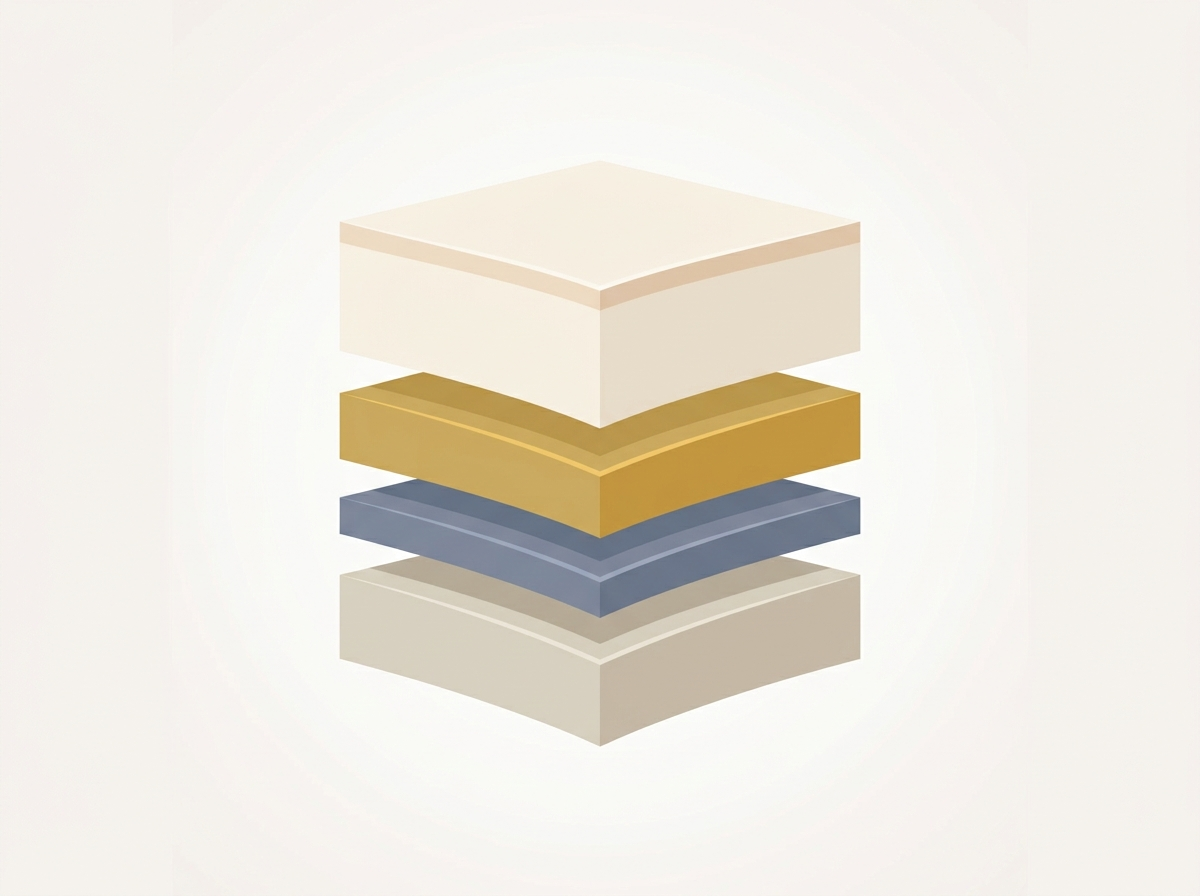
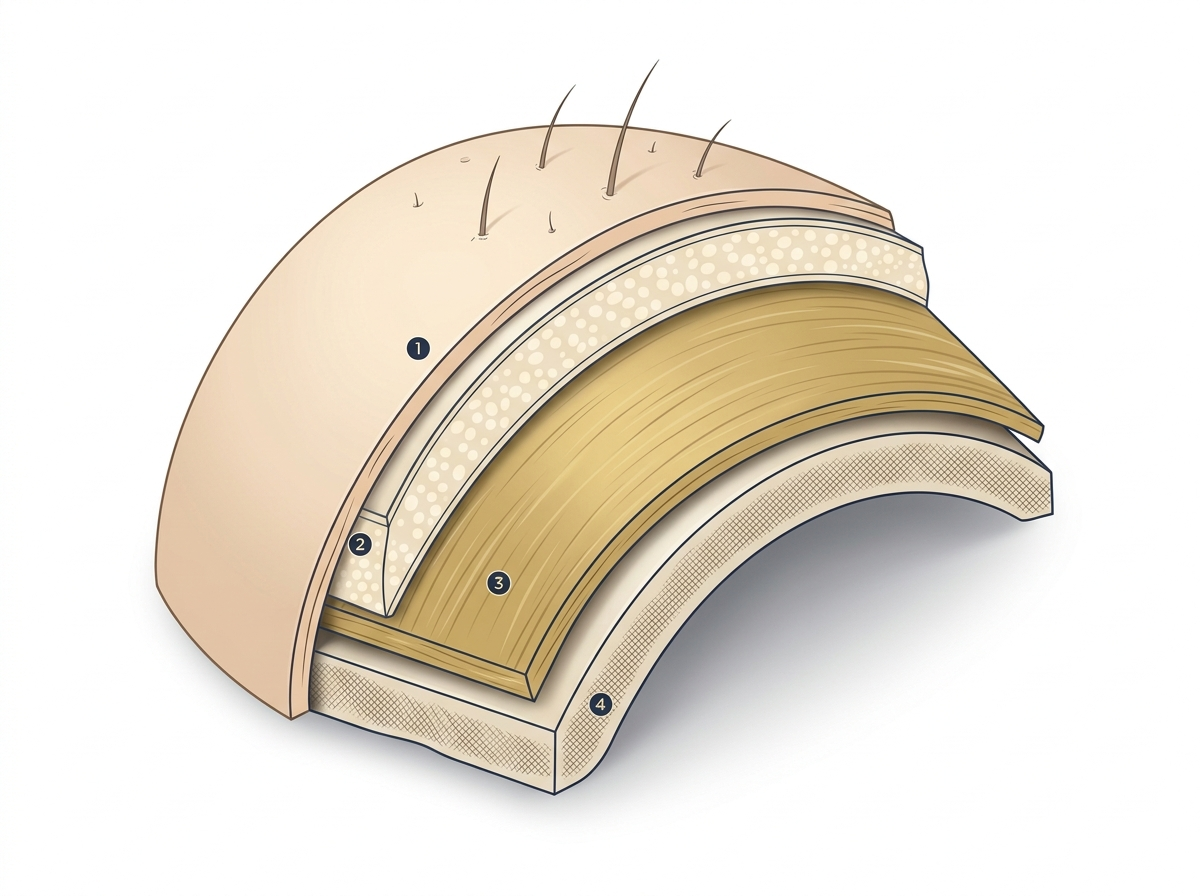
座学パイロットPG10追加(v2:解剖監修/参加設計/デザイン修正反映)＋断面図PG10_02を高品質版に再生成

diff --git a/PG10_座学_なぜ頭の地図で選ばれるのか.html b/PG10_座学_なぜ頭の地図で選ばれるのか.html
@@ -1,0 +1,322 @@
+<!DOCTYPE html>
+<html lang="ja">
+<head>
+<meta charset="UTF-8">
+<meta name="robots" content="noindex, nofollow">
+<meta name="viewport" content="width=device-width, initial-scale=1.0">
+<title>PG10 座学｜なぜ「頭の地図」を知ると選ばれ続けるのか</title>
+<style>
+  :root{--navy:#1B2A4A;--navy2:#0F1A2E;--gold:#C5A55A;--gold-l:#e3d3a6;--ivory:#F5F0E6;--ink:#1f2733;--mut:#5b6676;--line:#e7e2d6;--bg:#f3f1ea;--red:#c0392b;--green:#2f8a52;--blue:#2c5f9e;--skin:#efd9c4;--sub:#f0e2d0;--galea:#C5A55A;--bone:#e8ddc7}
+  *{box-sizing:border-box;margin:0;padding:0}
+  body{font-family:"Hiragino Kaku Gothic ProN","Yu Gothic",sans-serif;color:var(--ink);background:var(--bg);line-height:1.8;-webkit-font-smoothing:antialiased}
+  .wrap{max-width:1000px;margin:0 auto;padding:0 16px 100px}
+  header{background:radial-gradient(circle at 28% 18%,#28426d,var(--navy2));color:var(--ivory);padding:40px 28px 32px;margin:0 -16px 20px;border-bottom:4px solid var(--gold)}
+  header .mark{font-family:"Hiragino Mincho ProN",serif;color:var(--gold);letter-spacing:.28em;font-size:11px}
+  header h1{font-family:"Hiragino Mincho ProN",serif;font-size:25px;font-weight:600;margin:8px 0 6px;line-height:1.5}
+  header .meta{font-size:12.5px;color:#c9d2e0;display:flex;gap:16px;flex-wrap:wrap}
+  .howto{background:#fff;border:1px solid var(--line);border-radius:14px;padding:16px 22px;margin-bottom:8px}
+  .howto h2{font-size:15px;color:var(--navy);margin-bottom:8px;font-family:"Hiragino Mincho ProN",serif}
+  .howto .g{display:grid;grid-template-columns:repeat(3,1fr);gap:10px}
+  .howto .c{background:var(--ivory);border-radius:10px;padding:11px 14px;font-size:12.5px}
+  .howto .c b{display:block;color:var(--navy);font-size:13px;margin-bottom:2px}
+  .howto .c.audio{background:#eef4fb;border:1px solid #cddcf0}
+  .howto .c.visual{background:#fbf5e6;border:1px solid var(--gold-l)}
+  .scene{margin:26px 0}
+  .scene .bar{display:flex;align-items:center;gap:10px;margin-bottom:8px}
+  .scene .bar .no{background:var(--navy);color:#fff;font-weight:800;font-size:13px;border-radius:8px;padding:3px 13px}
+  .scene .bar .nm{font-size:14px;font-weight:800;color:var(--navy)}
+  .scene .bar .dur{margin-left:auto;font-size:11.5px;color:var(--mut)}
+  .slide{container-type:inline-size;aspect-ratio:16/9;width:100%;background:#fff;border:1px solid var(--line);border-radius:14px;overflow:hidden;position:relative;box-shadow:0 3px 16px rgba(27,42,74,.08)}
+  .slide.dark{background:radial-gradient(circle at 30% 25%,#26406b,var(--navy2));color:#fff;border:none}
+  .slide .pad{position:absolute;inset:0;padding:5cqw 6cqw;display:flex;flex-direction:column;justify-content:center}
+  .kick{font-size:2.5cqw;font-weight:800;letter-spacing:.02em;color:#9a7b27;margin-bottom:1.5cqw}
+  .slide.dark .kick{color:var(--gold-l)}
+  .big{font-size:5.2cqw;font-weight:800;line-height:1.36;color:var(--navy);font-family:"Hiragino Mincho ProN",serif}
+  .slide.dark .big{color:#fff}
+  .big .em{color:#9a7b27;background:linear-gradient(transparent 60%,rgba(197,165,90,.30) 60%)}
+  .slide.dark .big .em{color:var(--gold-l);background:none}
+  .sub{font-size:2.7cqw;color:var(--mut);margin-top:2cqw;line-height:1.6}
+  .slide.dark .sub{color:#c9d2e0}
+  .vs{display:grid;grid-template-columns:1fr auto 1fr;gap:3cqw;align-items:center;width:100%}
+  .vs .card{border-radius:2cqw;padding:3cqw;text-align:center}
+  .vs .bad{background:#f6eceb;border:0.4cqw solid #dcb7b2}
+  .vs .good{background:#eaf3ed;border:0.4cqw solid #a9d2ba}
+  .vs .ic{font-size:7cqw;line-height:1}
+  .vs .lb{font-size:2.9cqw;font-weight:800;margin-top:1cqw}
+  .vs .bad .lb{color:#a5433a}.vs .good .lb{color:var(--green)}
+  .vs .ds{font-size:2.15cqw;color:#555;margin-top:.8cqw;line-height:1.5}
+  .vs .mid{font-size:4cqw;color:var(--gold);font-weight:800}
+  /* 層構造 */
+  .figrow{display:flex;gap:4cqw;align-items:center;width:100%}
+  .figrow img{flex:0 0 40%;width:40%;border-radius:2cqw;border:1px solid var(--line);background:#fff}
+  .figrow .tx{flex:1;min-width:0}
+  .layers{display:flex;flex-direction:column;gap:1.1cqw}
+  .layers .ly{border-radius:1.4cqw;padding:1.9cqw 2.4cqw;font-size:2.5cqw;font-weight:700;display:flex;justify-content:space-between;align-items:center;color:#3a3327;gap:1cqw}
+  .layers .ly small{font-weight:400;font-size:1.95cqw;color:#6b6350;text-align:right}
+  .ly.skin{background:var(--skin)} .ly.subq{background:var(--sub)} .ly.galea{background:var(--galea);color:#3a2c08} .ly.bone{background:var(--bone)}
+  .lbl{display:flex;align-items:center;gap:1.4cqw;font-size:2.55cqw;font-weight:700;margin:1cqw 0}
+  .lbl .dot{width:2.4cqw;height:2.4cqw;border-radius:50%;flex:0 0 auto}
+  .lbl small{font-weight:400;font-size:1.9cqw;color:var(--mut)}
+  /* 例えバッジ（ネイビー地・全スライド共通で高コントラスト） */
+  .analogy{position:absolute;right:4cqw;bottom:4cqw;background:linear-gradient(135deg,#22375c,var(--navy2));border:0.55cqw solid var(--gold);border-radius:2cqw;padding:1.7cqw 2.3cqw;max-width:42%;box-shadow:0 1.4cqw 3.4cqw rgba(15,26,46,.34)}
+  .analogy .h{font-size:2cqw;font-weight:800;color:var(--gold-l);letter-spacing:.05em}
+  .analogy .b{font-size:2.5cqw;font-weight:800;color:#fff;line-height:1.4;margin-top:.4cqw}
+  /* やってみて（参加） */
+  .tryit{display:inline-flex;align-items:flex-start;gap:1.2cqw;background:rgba(47,138,82,.12);border:0.4cqw solid #a9d2ba;border-radius:1.6cqw;padding:1.4cqw 2cqw;font-size:2.35cqw;font-weight:800;color:#256b41;margin-top:2.4cqw;line-height:1.45}
+  .tryit::before{content:"✋ やってみて";background:var(--green);color:#fff;font-size:1.9cqw;border-radius:1cqw;padding:.5cqw 1.2cqw;white-space:nowrap;flex:0 0 auto}
+  .slide.dark .tryit{background:rgba(255,255,255,.1);border-color:#7fbf9b;color:#cdeede}
+  /* 重み図（S9） */
+  .weight{display:flex;gap:5cqw;align-items:center;width:100%;justify-content:center}
+  .weight .fig{font-size:14cqw;line-height:1}
+  .weight .bt{text-align:center}
+  .weight .bt .n{font-size:7cqw;font-weight:800;color:var(--navy);font-family:"Hiragino Mincho ProN",serif}
+  .weight .bt .n small{font-size:2.4cqw;color:var(--mut);font-weight:400;display:block}
+  .weight .eq{font-size:4cqw;color:var(--gold);font-weight:800}
+  .weight .pb{font-size:9cqw}
+  /* 好循環ループ */
+  .loop2{display:flex;flex-direction:column;gap:1.6cqw;width:100%;align-items:center}
+  .loop2 .r{display:flex;align-items:center;justify-content:center;gap:1.2cqw;flex-wrap:nowrap}
+  .loop2 .step{background:var(--ivory);border:0.4cqw solid var(--gold-l);border-radius:1.5cqw;padding:1.4cqw 1.8cqw;font-size:2.35cqw;font-weight:800;color:var(--navy);white-space:nowrap}
+  .loop2 .step.hi{background:var(--navy);color:#fff;border-color:var(--navy)}
+  .loop2 .ar{color:var(--gold);font-size:2.8cqw;font-weight:800}
+  .loop2 .down{align-self:flex-end;margin-right:8cqw;color:var(--gold);font-size:3.4cqw;font-weight:800;line-height:.8}
+  .loop2 .ret{font-size:2.3cqw;font-weight:800;color:#9a7b27;margin-top:1.2cqw}
+  .narr{background:#eef4fb;border:1px solid #cddcf0;border-left:5px solid var(--blue);border-radius:0 12px 12px 0;padding:14px 18px;margin-top:10px}
+  .narr .h{font-size:12px;font-weight:800;color:var(--blue);letter-spacing:.04em;margin-bottom:6px}
+  .narr .h::before{content:"🎙 ナレーション原稿（この文章を後から吹き込む）";}
+  .narr p{font-size:15px;line-height:2;margin:6px 0;color:#1f2733;font-family:"Hiragino Mincho ProN","Yu Mincho",serif}
+  .narr .do{color:#256b41;font-weight:700}
+  .telop{font-size:12px;color:var(--mut);margin-top:8px;padding-left:4px}
+  .telop b{color:var(--navy)}
+  .telop .a{color:#9a7b27;font-weight:700}
+  .telop .yomi{color:var(--blue);font-weight:700}
+  .analogy-note{background:#fffaf0;border:1px dashed var(--gold);border-radius:10px;padding:9px 14px;font-size:12.5px;color:#7a5f1e;margin-top:8px}
+  .analogy-note b{color:#9a7b27}
+  h2.sec{font-family:"Hiragino Mincho ProN",serif;color:var(--navy);font-size:19px;margin:30px 0 4px;padding-bottom:6px;border-bottom:2px solid var(--gold);display:inline-block}
+  .note{background:#fff8e8;border:1px dashed var(--gold);border-radius:10px;padding:12px 16px;font-size:13px;margin:12px 0;color:#7a5f1e}
+  footer{text-align:center;color:var(--mut);font-size:11.5px;margin-top:34px}
+  @media(max-width:640px){.howto .g{grid-template-columns:1fr}.narr p{font-size:14px}}
+  @media print{body{background:#fff}.scene{page-break-inside:avoid}}
+</style>
+</head>
+<body>
+<header>
+  <div class="mark">YAMAGUCHI-RYU RIYODO ／ 座学 LESSON — PILOT v2</div>
+  <h1>PG10 座学編｜なぜ「頭の地図」を知ると、選ばれ続けるのか</h1>
+  <div class="meta"><span>解剖学①（座学バージョン）</span><span>形式：図解スライド＋AI吹き替えナレーション</span><span>目安：約10分（11シーン）</span></div>
+</header>
+<div class="wrap">
+
+  <div class="howto">
+    <h2>この座学動画の作り方（制作メモ）</h2>
+    <div class="g">
+      <div class="c visual"><b>🎬 映像＝この画面がそのまま完成ビジュアル</b>各シーンの図解スライドを画面収録、または1枚ずつ書き出して並べる。文字は最小限・図で見せる設計。</div>
+      <div class="c audio"><b>🎙 音声＝各シーンの青枠原稿を後から吹き込み</b>太郎さんの声のクローンAIに、青枠のナレ原稿を読ませて乗せる。短文・話し言葉・難読語に読み仮名付き。</div>
+      <div class="c"><b>🎯 ねらい</b>①図解で視覚化 ②身近な例え ③自分の頭で確かめる参加、で「必ず残る」座学に。解剖の正確さ・薬機法も監修反映済み。</div>
+    </div>
+  </div>
+
+  <h2 class="sec">シーン構成（図解＋ナレーション原稿）</h2>
+
+  <!-- S1 -->
+  <div class="scene">
+    <div class="bar"><span class="no">S1</span><span class="nm">つかみ（タイトル）</span><span class="dur">0:00–0:40</span></div>
+    <div class="slide dark"><div class="pad" style="align-items:center;text-align:center">
+      <div class="kick">解剖学①　座学編</div>
+      <div class="big">同じ強さで揉んでいるのに、<br><span class="em">選ばれる人</span>と、選ばれない人がいる。</div>
+      <div class="sub">その差は「手の力」ではありません。頭の“地図”が、頭に入っているかどうかです。</div>
+    </div></div>
+    <div class="narr"><div class="h"></div>
+      <p>同じ強さで、同じ時間、頭をほぐしている。なのに、また来てもらえる人と、一度きりで終わる人がいます。この違いは、手の力ではありません。頭の「地図」が、頭に入っているかどうか。今日は、その地図を、いっしょに描いていきます。</p>
+    </div>
+    <div class="telop"><b>📺画面：</b>ネイビー背景・ゴールド見出し。静かなBGM。</div>
+  </div>
+
+  <!-- S2 -->
+  <div class="scene">
+    <div class="bar"><span class="no">S2</span><span class="nm">問題提起（2人の施術者）</span><span class="dur">0:40–1:40</span></div>
+    <div class="slide"><div class="pad" style="justify-content:center">
+      <div class="kick">なぜ差がつくのか</div>
+      <div class="vs">
+        <div class="card bad"><div class="ic">🤐</div><div class="lb">黙って揉む人</div><div class="ds">上手いけれど、何をしているか伝わらない。「気持ちよかった」で終わる。</div></div>
+        <div class="mid">VS</div>
+        <div class="card good"><div class="ic">🗣️</div><div class="lb">場所を語れる人</div><div class="ds">「ここは側頭筋、噛みしめでかたく感じやすい場所です」。“分かってる人”だと伝わる。</div></div>
+      </div>
+    </div></div>
+    <div class="narr"><div class="h"></div>
+      <p>ここに、2人の施術者がいます。1人は、とても上手に揉みます。でも、黙っています。お客様は「気持ちよかった」で、帰ります。もう1人は、施術しながら、こう言います。「ここは側頭筋。噛みしめのクセがある方は、かたく感じやすい場所と言われています」。同じ手の技術でも、あとの一言があるだけで、“この人は分かっているな”と伝わります。人は、分かっている人に、また任せたくなります。</p>
+    </div>
+    <div class="telop"><b>📺画面：</b>右（語れる人）を最後にゴールド枠でハイライト。<span class="yomi">AI読み：側頭筋＝そくとうきん</span></div>
+    <div class="analogy-note"><b>直し：</b>「噛みしめでこる」→「かたく感じやすい場所と言われています」に緩和（薬機法・因果の断定回避）。</div>
+  </div>
+
+  <!-- S3 -->
+  <div class="scene">
+    <div class="bar"><span class="no">S3</span><span class="nm">ゴール提示（カーナビの例え）</span><span class="dur">1:40–2:30</span></div>
+    <div class="slide"><div class="pad">
+      <div class="kick">この座学のゴール</div>
+      <div class="big">頭に<span class="em">“地図”</span>が入っている人は、迷わない。</div>
+      <div class="sub">道を聞いたとき——「たぶん、こっち…」より、「まっすぐ、次の角を右」と即答する人に、安心して任せますよね。施術もまったく同じです。</div>
+      <div class="analogy"><div class="h">たとえるなら</div><div class="b">🧭 カーナビが入った頭<br>“どこを触っているか”を即答できる</div></div>
+    </div></div>
+    <div class="narr"><div class="h"></div>
+      <p>道を聞いたとき、「たぶん、こっちかな…」と迷う人と、「この道をまっすぐ、次の角を右」と、はっきり答える人。どちらに、安心して任せたいですか。頭の中にカーナビが入っている人は、迷いません。施術も同じです。頭の地図が入っていれば、「今ここは側頭筋です」と、自然に言えるようになります。この座学のゴールは、あなたの頭に、その地図を入れることです。</p>
+    </div>
+    <div class="telop"><b>📺画面：</b>右下に「🧭カーナビ」バッジ（ネイビー地・ゴールド文字）。</div>
+  </div>
+
+  <!-- S4 -->
+  <div class="scene">
+    <div class="bar"><span class="no">S4</span><span class="nm">頭は4つの層（水泳帽の例え）＋断面図</span><span class="dur">2:30–3:50</span></div>
+    <div class="slide"><div class="pad">
+      <div class="kick">まず全体像：頭は層でできている</div>
+      <div class="figrow">
+        <img src="img/PG10_02_scalp_layers_cross.png" alt="頭皮の断面（層構造）">
+        <div class="tx"><div class="layers">
+          <div class="ly skin">① 皮ふ <small>いちばん外側</small></div>
+          <div class="ly subq">② 皮下（脂肪の層）<small>クッション</small></div>
+          <div class="ly galea">③ 帽状腱膜＋筋肉 <small>頭を包む“一枚の帽子”🏊</small></div>
+          <div class="ly bone">④ 頭の骨 <small>さわらない・位置の目印</small></div>
+        </div></div>
+      </div>
+    </div></div>
+    <div class="narr"><div class="h"></div>
+      <p>地図を描く前に、頭の断面を見ます。頭は、層になっています。いちばん外が、皮ふ。その下に、うすい脂肪の層、皮下があります。さらにその下が、今日の主役です。頭全体を、帽子のように包む、一枚の膜。帽状腱膜といいます。そして、この膜と、これからさわる筋肉は、ひとつながりです。膜が、筋肉どうしをつないでいます。イメージは、水泳帽。頭を、スッポリ、一枚で包んでいます。いちばん下が、骨。骨は、さわる相手ではなく、場所を確かめる目印に使います。</p>
+    </div>
+    <div class="telop"><b>📺画面：</b><span class="a">img/PG10_02（断面図）</span>を左に。③帽状腱膜＋筋肉の行をゴールドで強調。<span class="yomi">AI読み：帽状腱膜＝ぼうじょうけんまく</span></div>
+    <div class="analogy-note"><b>直し：</b>①皮下（脂肪の層）を追加（頭皮5層の正しい順）②「帽状腱膜」と「筋肉」を別レイヤーにせず<b>同一の“一枚の帽子”</b>に統合（前頭筋・後頭筋が宙に浮く誤りを回避）。<b>要再生成：</b>断面図PG10_02は頭の丸みと各層ラベル入りに差し替え予定。</div>
+  </div>
+
+  <!-- S5 -->
+  <div class="scene">
+    <div class="bar"><span class="no">S5</span><span class="nm">今日の3つの筋肉＋1つの膜（筋肉マップ）</span><span class="dur">3:50–4:40</span></div>
+    <div class="slide"><div class="pad">
+      <div class="kick">覚えるのは、たった4か所</div>
+      <div class="figrow">
+        <img src="img/PG10_01_head_muscle_map_side.png" alt="頭の筋肉マップ（横顔）">
+        <div class="tx">
+          <div class="lbl"><span class="dot" style="background:var(--gold)"></span>前頭筋（ぜんとうきん）<small>＝おでこ</small></div>
+          <div class="lbl"><span class="dot" style="background:#8a94a8"></span>側頭筋（そくとうきん）<small>＝こめかみ</small></div>
+          <div class="lbl"><span class="dot" style="background:#b9c0cf"></span>後頭部の筋肉<small>＝後ろ（前頭筋と対になる後ろ側）</small></div>
+          <div class="lbl"><span class="dot" style="background:var(--gold-l)"></span>帽状腱膜<small>＝てっぺん（前後をつなぐ膜）</small></div>
+        </div>
+      </div>
+    </div></div>
+    <div class="narr"><div class="h"></div>
+      <p>今日覚える場所は、4つです。おでこの、前頭筋。こめかみの、側頭筋。後ろの、後頭部の筋肉。そして、てっぺんを包む、帽状腱膜。じつは、おでこの前頭筋と、後ろの筋肉は、さっきの膜でつながった、ひとつの仲間です。前と後ろで、対になっています。この4つの、名前と、場所と、性格を、順番に見ていきます。</p>
+    </div>
+    <div class="telop"><b>📺画面：</b><span class="a">img/PG10_01（筋肉マップ）</span>を左に。名前が出るたび対応部位を発光。<span class="yomi">AI読み：前頭筋＝ぜんとうきん</span></div>
+    <div class="analogy-note"><b>直し：</b>「後頭筋（独立筋）」→「後頭部の筋肉（前頭筋と対になる後ろ側）」。前頭筋・後頭部の筋は帽状腱膜でつながる一つの筋（後頭前頭筋）という事実に整合。</div>
+  </div>
+
+  <!-- S6 -->
+  <div class="scene">
+    <div class="bar"><span class="no">S6</span><span class="nm">前頭筋（眉上げの例え）＋参加</span><span class="dur">4:40–5:40</span></div>
+    <div class="slide"><div class="pad">
+      <div class="kick">① 前頭筋（おでこ）</div>
+      <div class="big">眉を上げる筋肉。<br><span class="em">画面を見続ける</span>と、負担がかかりやすい。</div>
+      <div class="tryit">おでこに指を当てて、眉を2〜3回、上げ下げ。動く筋肉、それが前頭筋です。</div>
+      <div class="analogy"><div class="h">たとえるなら</div><div class="b">😳 驚いた顔のキープ<br>眉を上げたまま固まると額が張る</div></div>
+    </div></div>
+    <div class="narr"><div class="h"></div>
+      <p>1つ目は、前頭筋。おでこにある、うすい筋肉です。これは、眉を上げるときに使います。<span class="do">では、いっしょに。おでこに指を当てて、眉を、二、三回、上げ下げしてみてください。</span>動いていますね。それが、前頭筋です。画面をじっと見続けるときなど、無意識に眉を上げるクセがあると、この筋肉に負担がかかりやすいと言われています。驚いた顔を、キープしているようなものです。ここは、皮ふと、うすい層の下が、すぐ骨に近い場所。だから、強く押し込みません。皮ふごと、下から上へ、ゆっくりなで上げる。それで十分だと言われています。</p>
+    </div>
+    <div class="telop"><b>📺画面：</b>おでこ部位を発光。右下に「😳驚き顔キープ」バッジ。左に✋やってみて。</div>
+  </div>
+
+  <!-- S7 -->
+  <div class="scene">
+    <div class="bar"><span class="no">S7</span><span class="nm">側頭筋（グーの例え）＋参加</span><span class="dur">5:40–6:50</span></div>
+    <div class="slide"><div class="pad">
+      <div class="kick">② 側頭筋（こめかみ）</div>
+      <div class="big">噛む筋肉。<span class="em">食いしばり</span>のクセで、かたく感じやすい。</div>
+      <div class="tryit">こめかみに手を当てて、奥歯をグッと噛む。ふくらむのが側頭筋です。</div>
+      <div class="analogy"><div class="h">たとえるなら</div><div class="b">✊ ずっとグーを握った手<br>あごが一日グーを握り続けている状態</div></div>
+    </div></div>
+    <div class="narr"><div class="h"></div>
+      <p>2つ目は、側頭筋。こめかみから、耳の上に広がる、おうぎ形の筋肉です。これは、噛むときに使います。<span class="do">こめかみに、手を当ててください。そのまま、奥歯を、グッと噛んでみてください。</span>ふくらみましたね。それが、側頭筋です。想像してください。手で、グーを、ずっと握りしめていたら、手は疲れて、かたくなります。食いしばりが続く方は、あごが、一日じゅうグーを握り続けているようなもの。この筋肉が、こわばりやすいと言われています。ここは、指の腹で、面を広くとらえて、小さな円を、ゆっくり描く。押し込むのではなく、動かす。それが基本です。</p>
+    </div>
+    <div class="telop"><b>📺画面：</b>こめかみ発光＋「奥歯を噛む→ふくらむ」矢印。右下「✊グーを握り続ける手」。</div>
+  </div>
+
+  <!-- S8 -->
+  <div class="scene">
+    <div class="bar"><span class="no">S8</span><span class="nm">前と後ろは1枚の膜（俯瞰図）＋参加</span><span class="dur">6:50–7:50</span></div>
+    <div class="slide"><div class="pad">
+      <div class="kick">③ 後ろの筋肉＋帽状腱膜（つながりの話）</div>
+      <div class="figrow">
+        <img src="img/PG10_03_galea_top_view.png" alt="頭頂からの俯瞰・帽状腱膜が前後をつなぐ">
+        <div class="tx">
+          <div class="big" style="font-size:4.3cqw">前と後ろは、<span class="em">1枚の膜</span>で引っぱり合っている。</div>
+          <div class="sub" style="font-size:2.35cqw">だから、おでこの張りが後頭部に伝わりやすい。＝おでこを軽くすると、後ろも軽く感じやすい。</div>
+          <div class="tryit" style="margin-top:1.8cqw">頭を軽く前に倒すと、後ろが“ピン”と張る。それが後ろの筋肉です。</div>
+        </div>
+      </div>
+    </div></div>
+    <div class="narr"><div class="h"></div>
+      <p>3つ目は、後頭部の筋肉です。ここで、さっきの水泳帽を思い出してください。おでこの前頭筋と、後ろの筋肉は、この一枚の膜、帽状腱膜で、つながっています。前と後ろで、帽子を引っぱり合っているんです。<span class="do">頭を、軽く前に倒してみてください。後ろの首すじが、ピンと張りますね。</span>そこが、後ろの筋肉です。前と後ろがつながっているので、おでこの張りは、後頭部にも伝わりやすいと言われています。逆に言えば、おでこを軽くすると、後ろも軽く感じやすい、ということです。ここは、後頭部の骨の縁を目印に、ゆっくり支えるように触れます。</p>
+    </div>
+    <div class="telop"><b>📺画面：</b><span class="a">img/PG10_03（俯瞰図）</span>を左に。前⇄後ろの両矢印アニメ。バッジは置かず1メッセージに集中。</div>
+    <div class="analogy-note"><b>直し：</b>旧S8の3情報（膜つながり／緊張伝達／重量）のうち、ここは<b>「つながり」1つに集中</b>。重量の話は次のS9に分離（1シーン1メッセージ）。</div>
+  </div>
+
+  <!-- S9 -->
+  <div class="scene">
+    <div class="bar"><span class="no">S9</span><span class="nm">後頭部の負担（頭の重さの例え）</span><span class="dur">7:50–8:40</span></div>
+    <div class="slide"><div class="pad" style="justify-content:center">
+      <div class="kick">なぜ後ろは疲れやすいのか</div>
+      <div class="weight">
+        <div class="bt"><div class="fig">🙇</div><div class="n" style="font-size:2.8cqw">前かがみの姿勢</div></div>
+        <div class="eq">＝</div>
+        <div class="bt"><div class="n">約5<small>キロ（頭の重さ）</small></div></div>
+        <div class="eq">≒</div>
+        <div class="bt"><div class="pb">🧴🧴🥤</div><div class="n" style="font-size:2.4cqw">2Lペット 約2.5本</div></div>
+      </div>
+      <div class="sub" style="text-align:center;margin-top:3cqw">その重さを、首の後ろ側で支え続ける。だから後頭部まわりは負担がたまりやすい。</div>
+    </div></div>
+    <div class="narr"><div class="h"></div>
+      <p>では、なぜ、後ろは疲れやすいのか。頭の重さは、およそ5キロ、とされています。2リットルのペットボトルなら、2本半くらい。けっこうな重さです。前かがみで、スマホを見続けると、その重みを、首の後ろ側で、支え続けることになります。だから、後頭部から首にかけては、負担がたまりやすいと言われています。ここを触れるときは、グリグリこするのではなく、頭の重みを、指で受けとめるように、ゆっくり支える。それが基本です。</p>
+    </div>
+    <div class="telop"><b>📺画面：</b>🙇＝約5キロ≒2Lペット2.5本、の重さ図解。<span class="yomi">AI読み：5キロ＝ごキロ</span></div>
+    <div class="analogy-note"><b>直し：</b>「後頭筋が5kgを支える」→力学的に不正確なので主語を<b>「首の後ろ側」</b>に。ボウリング玉（号数で3.6〜7.3kgと幅）は避け、<b>2Lペット約2.5本</b>で安定化。「約5kgとされています」で断定回避。</div>
+  </div>
+
+  <!-- S10 -->
+  <div class="scene">
+    <div class="bar"><span class="no">S10</span><span class="nm">なぜ選ばれ続けるのか（好循環ループ）</span><span class="dur">8:40–9:20</span></div>
+    <div class="slide"><div class="pad" style="justify-content:center">
+      <div class="kick" style="text-align:center">場所を知ると、この“輪”が回り出す</div>
+      <div class="loop2">
+        <div class="r"><span class="step">場所が分かる</span><span class="ar">→</span><span class="step">施術中に言える</span><span class="ar">→</span><span class="step hi">“分かってる人”</span><span class="ar">→</span><span class="step">信頼・指名</span></div>
+        <div class="down">↓</div>
+        <div class="r"><span class="step">もっと提供したくなる</span><span class="ar">←</span><span class="step">自信がつく</span><span class="ar">←</span><span class="step">単価が上がる</span></div>
+        <div class="ret">↺ そして最初の「もっと良い施術」に戻り、輪が回り続ける</div>
+      </div>
+    </div></div>
+    <div class="narr"><div class="h"></div>
+      <p>ここまでの話が、なぜ大事か。場所が分かると、施術中に「今、側頭筋です」と、言えます。言えると、“分かっている人”だと伝わります。伝わると、信頼され、指名につながります。指名が増えると、単価も上げやすくなる。数字が上がると、自信がつきます。自信がつくと、もっと提供したくなる。そして、また良い施術になる。この良い輪が、回り始めます。すべての出発点が、今日の「頭の地図」です。</p>
+    </div>
+    <div class="telop"><b>📺画面：</b>チップを順に点灯→下段へ折り返し→最後に↺で輪が閉じるアニメ。「“分かってる人”」をネイビーで強調。</div>
+    <div class="analogy-note"><b>直し：</b>横一列＋末尾↩で直線に見えた問題を、<b>上段→折り返し→下段→↺</b>の2段ループ図に。後半（自信・提供）も文章でなくチップ化。</div>
+  </div>
+
+  <!-- S11 -->
+  <div class="scene">
+    <div class="bar"><span class="no">S11</span><span class="nm">まとめ＋現場の一言テンプレ</span><span class="dur">9:20–10:00</span></div>
+    <div class="slide dark"><div class="pad" style="align-items:center;text-align:center">
+      <div class="kick">今日から使える、たった一言</div>
+      <div class="big">「ここは<span class="em">側頭筋</span>です。<br>噛みしめで、かたく感じやすい場所ですよ。」</div>
+      <div class="sub">前頭筋・側頭筋・後頭部の筋肉・帽状腱膜。名前を言えるだけで、あなたは“語れる施術者”になります。</div>
+    </div></div>
+    <div class="narr"><div class="h"></div>
+      <p>今日は、頭の4つの場所を覚えました。おでこの前頭筋、こめかみの側頭筋、後ろの筋肉、そして頭を包む帽状腱膜。最後に、今日から使える一言を、渡します。施術中に、こう言ってみてください。「ここは側頭筋です。噛みしめで、かたく感じやすい場所ですよ」。たった、これだけです。名前を言えるだけで、あなたは“語れる施術者”になります。次回は、この4つの場所を使って、実際に頭皮をゆるめていきます。それでは、また次回。</p>
+    </div>
+    <div class="telop"><b>📺画面：</b>ネイビー背景に一言テンプレを大きく。4部位名を下部に一覧。次回予告テロップ。</div>
+  </div>
+
+  <div class="note">💡 <b>このパイロットで確定した型：</b>「図解スライド＋短文ナレ原稿＋各回に“やってみて”参加＋身近な例え」。OKなら座学全回（値付け・接客・集客・衛生・編集ほか）に横展開します。<b>残1点：</b>断面図（S4のPG10_02）はNano Banana 2で「頭の丸み＋各層ラベル入り」に再生成してから差し替え推奨（ここだけ現状チープなため）。</div>
+
+  <footer>山口流 理容道｜PG10 座学編（パイロットv2）｜図解＋AI吹き替え｜解剖監修・薬機法・教育定着・デザインの3視点レビュー反映済み｜ⓒ Prorium（社外秘）</footer>
+</div>
+</body>
+</html>